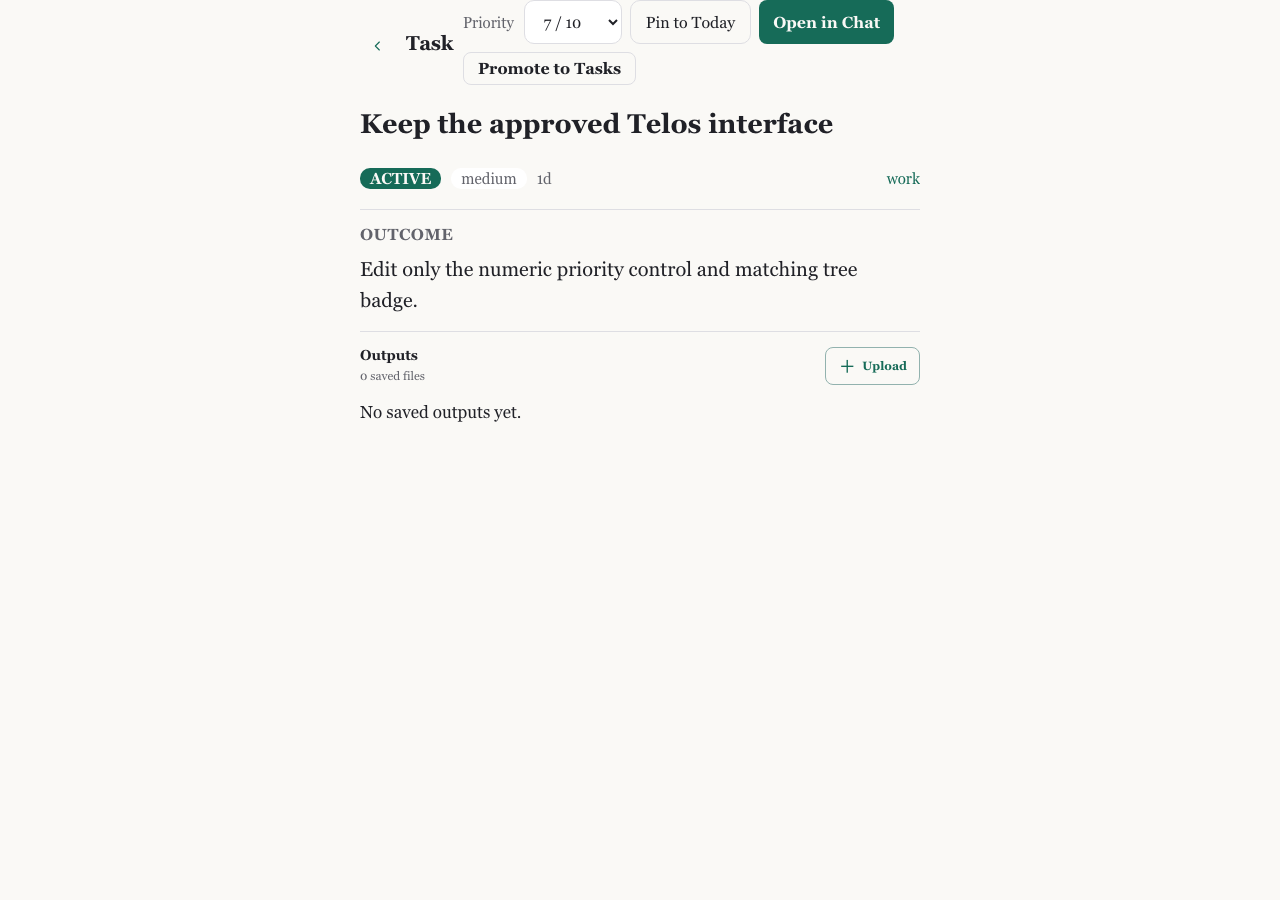
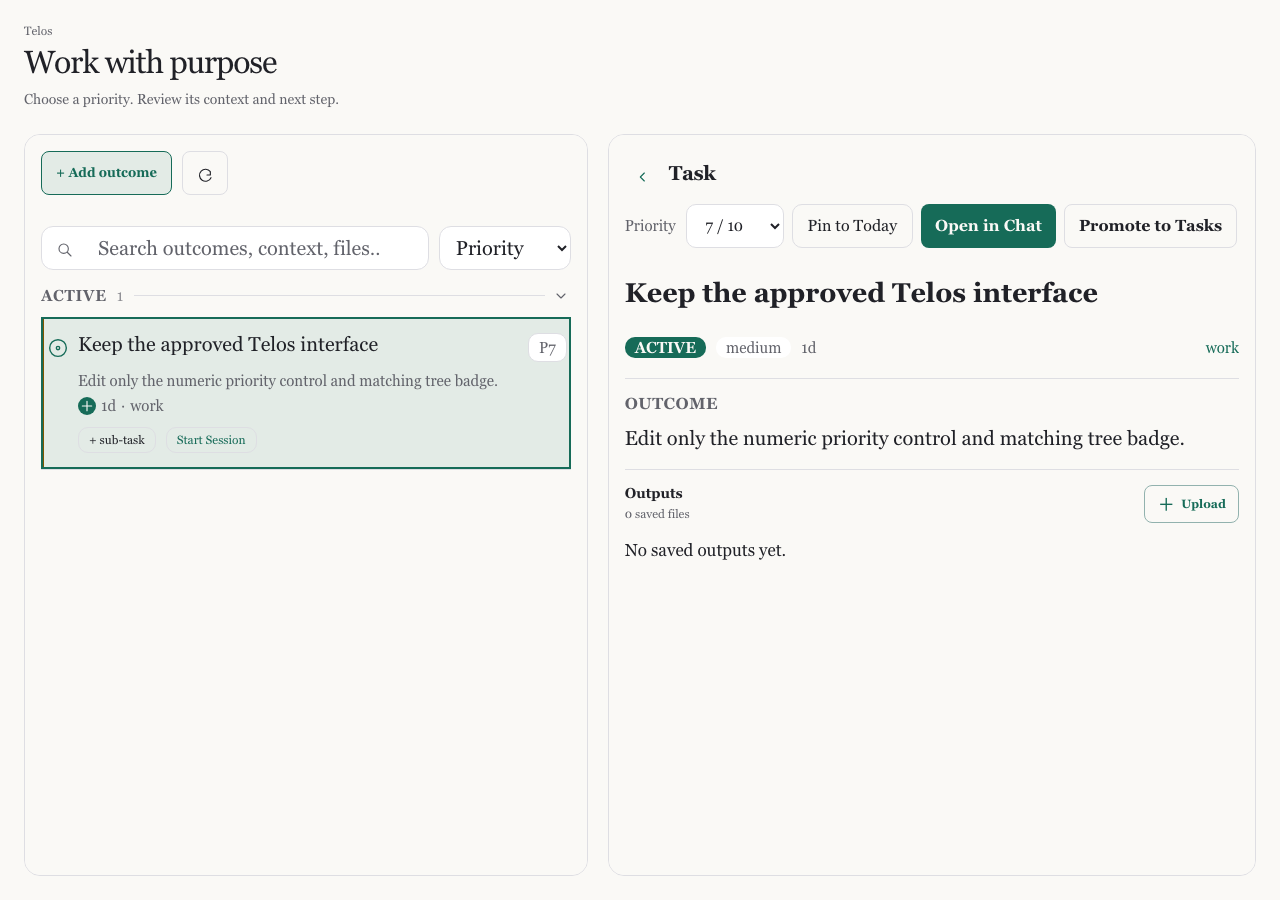
fix(telos): synchronize priority edits across views and navigation

diff --git a/frontend/src/hooks/useTodoData.ts b/frontend/src/hooks/useTodoData.ts
@@ -5,6 +5,8 @@ import { eventBus } from '../lib/event-bus-singleton';
 import { ListCache, SupersededListRequest } from '../lib/list-cache';
 
 const todoCache = new ListCache<TodoData>();
+// Keep writes ordered even when the detail view unmounts and another one opens.
+const priorityWrites = new Map<string, Promise<void>>();
 function invalidateTodos(): void {
   invalidateTodoReads();
   todoCache.invalidate();
@@ -79,6 +81,8 @@ export function useTodoData(profile?: string): UseTodoDataResult {
   const urlRef = useRef(url);
   urlRef.current = url;
 
+  useEffect(() => todoCache.subscribe(url, () => setData(todoCache.get(url) ?? null)), [url]);
+
   useEffect(() => {
     let cancelled = false;
     const cached = todoCache.get(url);
@@ -152,7 +156,6 @@ export function useTodoData(profile?: string): UseTodoDataResult {
         );
       invalidateTodoReads();
       todoCache.update((data) => ({ ...data, items: removeFromTree(data.items, id) }));
-      setData((prev) => (prev ? { ...prev, items: removeFromTree(prev.items, id) } : prev));
     } catch {
       if (urlRef.current === actionUrl)
         setError('Couldn’t confirm this change. Refresh to check its status.');
@@ -180,10 +183,6 @@ export function useTodoData(profile?: string): UseTodoDataResult {
     // Optimistically toggle
     invalidateTodoReads();
     todoCache.update((data) => ({ ...data, items: toggleStarInTree(data.items, id) }));
-    setData((prev) => {
-      if (!prev) return prev;
-      return { ...prev, items: toggleStarInTree(prev.items, id) };
-    });
 
     try {
       const response = await apiFetch(`/api/todos/${id}/action`, {
@@ -203,21 +202,30 @@ export function useTodoData(profile?: string): UseTodoDataResult {
   const setPriority = useCallback(async (id: string, priority: number) => {
     if (!Number.isInteger(priority) || priority < 1 || priority > 10)
       throw new Error('Priority must be from 1 to 10');
-    const response = await apiFetch(`/api/todos/${encodeURIComponent(id)}/action`, {
-      method: 'POST',
-      headers: { 'Content-Type': 'application/json' },
-      body: JSON.stringify({ action: 'priority', priority }),
-    });
-    if (!response.ok || (await response.json()).ok !== true)
-      throw new Error('Priority change was not confirmed');
+    const write = async () => {
+      const response = await apiFetch(`/api/todos/${encodeURIComponent(id)}/action`, {
+        method: 'POST',
+        headers: { 'Content-Type': 'application/json' },
+        body: JSON.stringify({ action: 'priority', priority }),
+      });
+      if (!response.ok || (await response.json()).ok !== true)
+        throw new Error('Priority change was not confirmed');
 
-    // Invalidate reads admitted before the write, then publish the confirmed value
-    // to every cached profile. No optimistic rollback can overwrite a newer edit.
-    invalidateTodoReads();
-    todoCache.update((data) => ({ ...data, items: setPriorityInTree(data.items, id, priority) }));
-    setData((data) =>
-      data ? { ...data, items: setPriorityInTree(data.items, id, priority) } : data,
-    );
+      // The cache publishes confirmed changes to every mounted list/detail consumer.
+      invalidateTodoReads();
+      todoCache.update((data) => ({
+        ...data,
+        items: setPriorityInTree(data.items, id, priority),
+      }));
+    };
+    const previous = priorityWrites.get(id);
+    const pending = previous ? previous.catch(() => {}).then(write) : write();
+    priorityWrites.set(id, pending);
+    try {
+      await pending;
+    } finally {
+      if (priorityWrites.get(id) === pending) priorityWrites.delete(id);
+    }
   }, []);
 
   const create = useCallback(

diff --git a/frontend/src/hooks/__tests__/useTodoData.test.ts b/frontend/src/hooks/__tests__/useTodoData.test.ts
@@ -75,6 +75,60 @@ afterEach(() => {
 });
 
 describe('useTodoData', () => {
+  it('publishes confirmed priority to simultaneously mounted list and detail consumers', async () => {
+    const list = renderHook(() => useTodoData('work'));
+    const detail = renderHook(() => useTodoData());
+    await waitFor(() => expect(list.result.current.loading).toBe(false));
+    await waitFor(() => expect(detail.result.current.loading).toBe(false));
+    vi.mocked(apiFetch).mockResolvedValueOnce(Response.json({ ok: true }));
+    await act(async () => detail.result.current.setPriority('abc123', 7));
+    expect(detail.result.current.items[0].priority).toBe(7);
+    expect(list.result.current.items[0].priority).toBe(7);
+  });
+
+  it.each([true, false])(
+    'orders priority writes across navigation when the first save succeeds=%s',
+    async (firstSucceeds) => {
+      const first = renderHook(() => useTodoData());
+      await waitFor(() => expect(first.result.current.loading).toBe(false));
+      let finishFirst!: (response: Response) => void;
+      vi.mocked(apiFetch).mockImplementationOnce(
+        () => new Promise<Response>((resolve) => (finishFirst = resolve)),
+      );
+      let older!: Promise<void>;
+      act(() => {
+        older = first.result.current.setPriority('abc123', 7);
+      });
+      // Handle rejection before intentionally holding the request across a remount.
+      const olderResult = older.catch(() => {});
+      first.unmount();
+      const second = renderHook(() => useTodoData());
+      await waitFor(() => expect(second.result.current.loading).toBe(false));
+      vi.mocked(apiFetch).mockResolvedValueOnce(Response.json({ ok: true }));
+      let newer!: Promise<void>;
+      act(() => {
+        newer = second.result.current.setPriority('abc123', 9);
+      });
+      expect(
+        vi.mocked(apiFetch).mock.calls.filter(([, init]) => init?.method === 'POST'),
+      ).toHaveLength(1);
+      await act(async () => {
+        finishFirst(Response.json({ ok: firstSucceeds }));
+        await olderResult;
+        await newer;
+      });
+      expect(second.result.current.items[0].priority).toBe(9);
+      expect(
+        vi
+          .mocked(apiFetch)
+          .mock.calls.filter(([, init]) => init?.method === 'POST')
+          .map(([, init]) => JSON.parse(init!.body as string).priority),
+      ).toEqual([7, 9]);
+      const third = renderHook(() => useTodoData());
+      expect(third.result.current.items[0].priority).toBe(9);
+    },
+  );
+
   it('publishes confirmed numeric priority and keeps it when a later save fails', async () => {
     const { result } = renderHook(() => useTodoData());
     await waitFor(() => expect(result.current.loading).toBe(false));

diff --git a/frontend/src/lib/__tests__/list-cache.test.ts b/frontend/src/lib/__tests__/list-cache.test.ts
@@ -3,6 +3,26 @@ import { expect, it, vi } from 'vitest';
 import { ListCache, SupersededListRequest } from '../list-cache';
 import { AUTH_LOST_EVENT, AUTH_RESTORED_EVENT } from '../api-fetch';
 
+it('publishes snapshots by key and stops notifying after unsubscribe', async () => {
+  const cache = new ListCache<string>();
+  const seen: (string | undefined)[] = [];
+  const other = vi.fn();
+  const unsubscribe = cache.subscribe('all', () => seen.push(cache.get('all')));
+  cache.subscribe('profile', other);
+  cache.set('all', 'first');
+  cache.update((value) => `${value} updated`);
+  expect(seen).toEqual(['first', 'first updated']);
+  expect(other).not.toHaveBeenCalled();
+  cache.clear();
+  expect(seen).toEqual(['first', 'first updated', undefined]);
+  expect(other).toHaveBeenCalledOnce();
+  await cache.load('all', async () => 'loaded');
+  expect(seen.at(-1)).toBe('loaded');
+  unsubscribe();
+  cache.set('all', 'later');
+  expect(seen).toHaveLength(4);
+});
+
 it('shares concurrent reads, retains a snapshot, and revalidates later reads', async () => {
   const cache = new ListCache<string>();
   let finish!: (value: string) => void;
@@ -28,6 +48,8 @@ it.each([AUTH_LOST_EVENT, AUTH_RESTORED_EVENT])(
   async (event) => {
     const cache = new ListCache<string>();
     cache.set('other', 'private');
+    const snapshots: (string | undefined)[] = [];
+    cache.subscribe('other', () => snapshots.push(cache.get('other')));
     let finish!: (value: string) => void;
     const stale = cache.load(
       'all',
@@ -39,6 +61,7 @@ it.each([AUTH_LOST_EVENT, AUTH_RESTORED_EVENT])(
     const rejected = expect(stale).rejects.toBeInstanceOf(SupersededListRequest);
     window.dispatchEvent(new Event(event));
     expect(cache.get('other')).toBeUndefined();
+    expect(snapshots).toEqual([undefined]);
     expect(await cache.load('all', async () => 'new-account')).toBe('new-account');
     finish('old-account');
     await rejected;

diff --git a/frontend/src/lib/list-cache.ts b/frontend/src/lib/list-cache.ts
@@ -6,6 +6,7 @@ export class SupersededListRequest extends Error {}
 export class ListCache<T> {
   private snapshots = new Map<string, T>();
   private pending = new Map<string, Promise<T>>();
+  private listeners = new Map<string, Set<() => void>>();
   private generation = 0;
 
   constructor() {
@@ -21,6 +22,17 @@ export class ListCache<T> {
 
   set(key: string, data: T): void {
     this.snapshots.set(key, data);
+    this.listeners.get(key)?.forEach((listener) => listener());
+  }
+
+  subscribe(key: string, listener: () => void): () => void {
+    const listeners = this.listeners.get(key) ?? new Set();
+    this.listeners.set(key, listeners);
+    listeners.add(listener);
+    return () => {
+      listeners.delete(listener);
+      if (!listeners.size) this.listeners.delete(key);
+    };
   }
 
   invalidate(): void {
@@ -36,6 +48,7 @@ export class ListCache<T> {
   clear(): void {
     this.invalidate();
     this.snapshots.clear();
+    this.listeners.forEach((listeners) => listeners.forEach((listener) => listener()));
   }
 
   load(key: string, loader: () => Promise<T>): Promise<T> {

diff --git a/tests/fixtures/telos-priority.tsx b/tests/fixtures/telos-priority.tsx
@@ -2,8 +2,7 @@ import { createRoot } from 'react-dom/client';
 import { BrowserRouter, Routes, Route } from 'react-router-dom';
 import { createMitzoStore } from '@mitzo/client';
 import { MitzoStoreProvider } from '@mitzo/client/hooks';
-import { TodoView } from '../../frontend/src/pages/TodoView';
-import { TodoDetailView } from '../../frontend/src/pages/TodoDetailView';
+import { TodoWorkspace } from '../../frontend/src/pages/TodoWorkspace';
 import '../../frontend/src/styles/tokens.css';
 import '../../frontend/src/styles/global.css';
 import '../../frontend/src/styles/desktop.css';
@@ -36,8 +35,8 @@ createRoot(document.getElementById('root')!).render(
   <MitzoStoreProvider value={store}>
     <BrowserRouter>
       <Routes>
-        <Route path="/todos" element={<TodoView />} />
-        <Route path="/todos/:id" element={<TodoDetailView />} />
+        <Route path="/todos" element={<TodoWorkspace />} />
+        <Route path="/todos/:id" element={<TodoWorkspace />} />
       </Routes>
     </BrowserRouter>
   </MitzoStoreProvider>,

diff --git a/frontend/src/pages/__tests__/TodoWorkspace.test.tsx b/frontend/src/pages/__tests__/TodoWorkspace.test.tsx
@@ -35,7 +35,8 @@ const item: TodoItem = {
     taskHint: 'Inspect current pages',
   },
 };
-vi.mock('../../hooks/useTodoData', () => ({
+vi.mock('../../hooks/useTodoData', async (importOriginal) => ({
+  ...(await importOriginal<typeof import('../../hooks/useTodoData')>()),
   useTodoData: () => ({
     loading: false,
     items: [item, { ...item, id: 'second', summary: 'Review desktop work' }],
@@ -43,6 +44,7 @@ vi.mock('../../hooks/useTodoData', () => ({
     ack: vi.fn(),
     done: vi.fn(),
     star: vi.fn(),
+    setPriority: vi.fn(),
     create: vi.fn(),
     refresh: vi.fn(),
   }),

diff --git a/tests/offline/telos-priority.spec.ts b/tests/offline/telos-priority.spec.ts
@@ -146,6 +146,8 @@ for (const theme of ['dark', 'light'] as const)
     release();
     await expect(select).toHaveValue('7');
     await expect(select).toBeEnabled();
+    if (!info.project.name.startsWith('mobile'))
+      await expect(page.getByLabel('Priority 7 of 10')).toHaveText('P7');
     expect(await page.evaluate(() => document.documentElement.scrollWidth <= innerWidth)).toBe(
       true,
     );

diff --git a/docs/features/telos-priority-scale.md b/docs/features/telos-priority-scale.md
@@ -41,8 +41,12 @@ read; an unsupported or rejected write remains visible as a save error.
 shared control height and focus styling. It disables overlapping saves. The
 confirmed value remains visible while saving; failures preserve it and announce
 uncertainty without replaying a write. The existing list cache updates only after
-confirmation. Item detail uses that same data owner rather than a second list
-fetch. Reloads and navigation revalidate the persisted value.
+confirmation and publishes it to every mounted list/detail consumer, including
+the desktop split view. Writes to the same item are serialized across navigation
+and remounts, so a delayed older acknowledgment cannot replace a newer edit.
+A failed write does not prevent the next explicit edit. Item detail uses that
+same data owner rather than a second list fetch. Reloads and navigation
+revalidate the persisted value.
 
 The added database column participates in the existing item revision snapshots.
 Ordinary role/delegation owners retain their existing revision conflict checks;
@@ -59,7 +63,8 @@ this amendment adds no dispatcher, task-priority mapping or runtime behavior.
 | Saving, rejection and uncertain response     | Confirmed-only hook tests; selector serialization/error tests; intercepted browser failure                               |
 | Mobile and desktop usability                 | Offline WebKit/Chromium at 320px and Chromium at 1280px, light/dark, alternate fonts/accents and larger light-theme text |
 
-The browser fixture renders the actual current Telos pages with intercepted
+The browser fixture renders the actual responsive `TodoWorkspace`, including
+simultaneously mounted desktop list/detail panels, with intercepted
 HTTP and an inert transport. It omits the surrounding application shell. Full
 build, broader browser acceptance and review remain CI/review gates. It uses no
 backend, live account, credentials or model calls.

diff --git a/docs/design/ui-design-system.md b/docs/design/ui-design-system.md
@@ -1457,10 +1457,12 @@ Pending saves disable the field; failures announce uncertainty beside the field
 and preserve the last confirmed value. Existing grouping, sorting and navigation
 remain unchanged. This is not the later S7/S8 workspace implementation.
 
-The intercepted `telos-priority.spec.ts` fixture covers the actual current pages
+The intercepted `telos-priority.spec.ts` fixture covers the actual responsive workspace
 on 320px WebKit/Chromium and desktop Chromium in dark Mint/System and light
 Teal/Georgia with larger text, keyboard focus, save/reject/reload and matching
-badges after navigation. See [the amendment](../features/telos-priority-scale.md)
+badges after navigation and immediately in the mounted desktop tree after saving.
+The list cache publishes confirmed changes to all consumers; per-item writes
+remain ordered across detail remounts. See [the amendment](../features/telos-priority-scale.md)
 for API/persistence ownership and its relationship to the frozen r1 design.
 
 Inspected implementation captures: [phone header](assets/telos-priority-mobile-dark.png),
